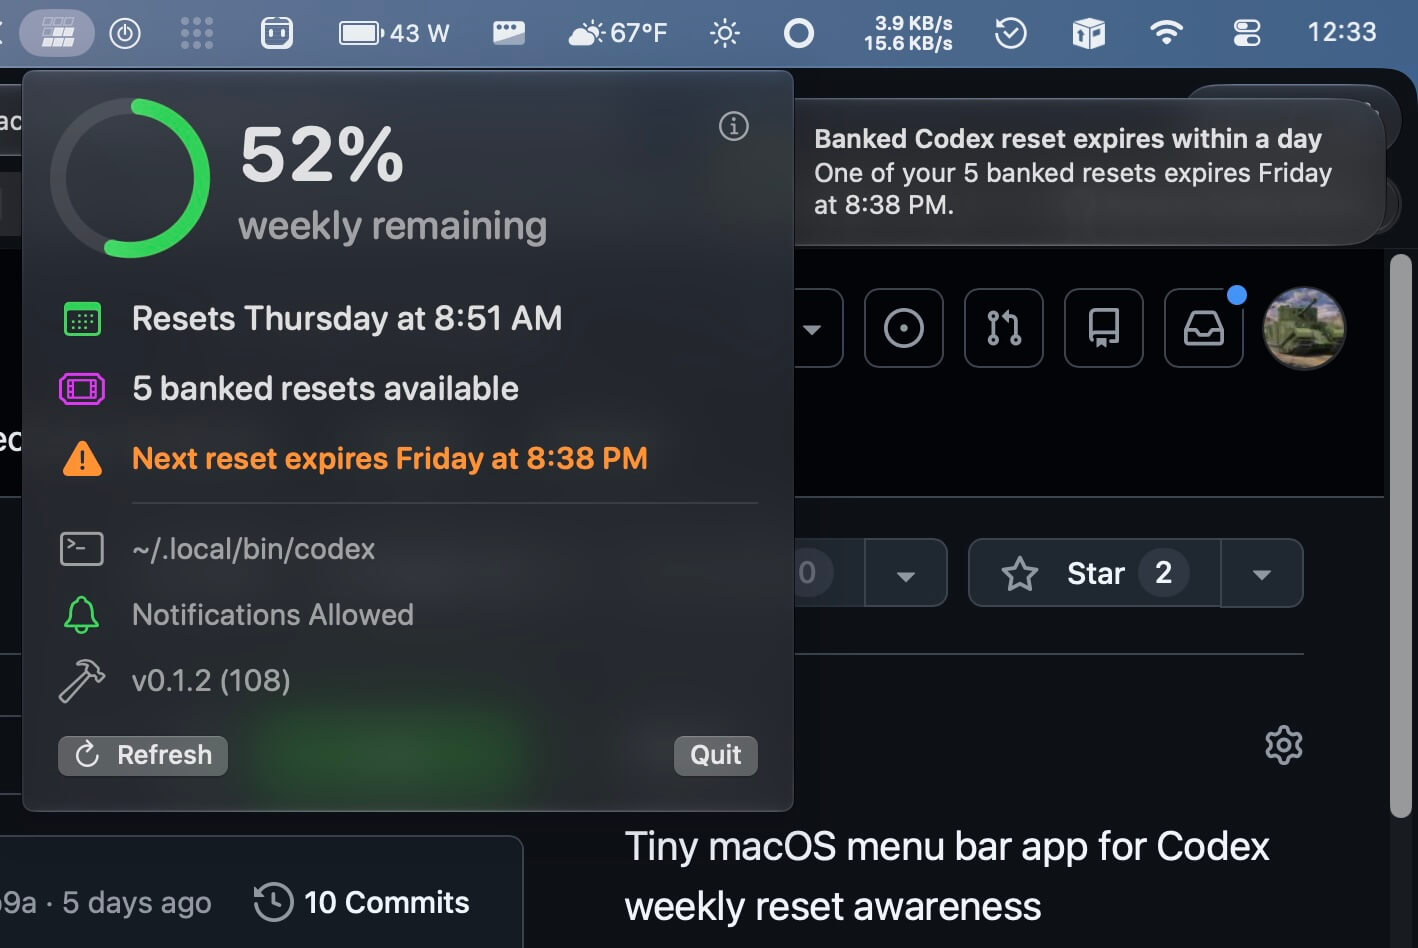
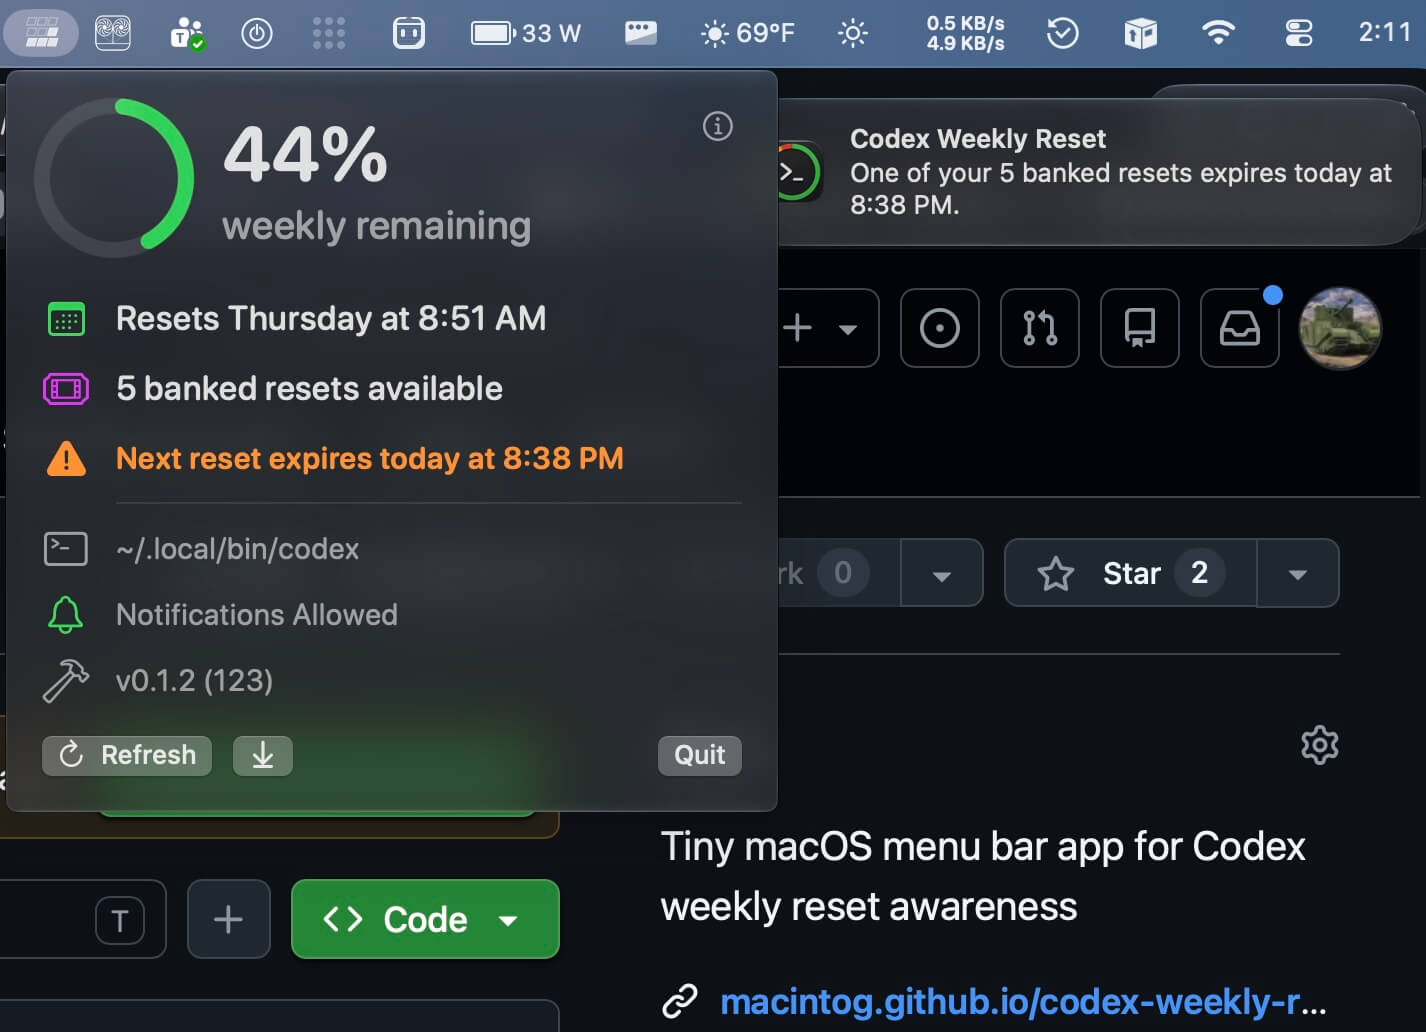
Refresh build 123 website screenshot

Changed region(s): [[0.0, 0.0, 1.0, 0.9789], [0.4344, 0.9483, 0.9309, 1.0]]

diff --git a/website/index.html b/website/index.html
@@ -51,10 +51,10 @@
         <figure class="hero-visual">
           <a class="preview-link" href="assets/codex-weekly-reset-alert.jpg" aria-label="Open the full-size Codex Weekly Reset launch warning screenshot">
             <div class="preview-frame">
-              <img class="app-preview-image" src="assets/codex-weekly-reset-alert.jpg" width="1418" height="948" alt="Codex Weekly Reset showing 52 percent weekly capacity, five banked resets, an upcoming expiry, and the matching one-day macOS notification">
+              <img class="app-preview-image" src="assets/codex-weekly-reset-alert.jpg" width="1426" height="1032" alt="Codex Weekly Reset build 123 showing 44 percent weekly capacity, five banked resets, a reset expiring today, and its matching native macOS notification">
             </div>
           </a>
-          <figcaption>Actual launch warning from the rebuilt app. Live Codex data, with no log scraping or inferred limits.</figcaption>
+          <figcaption>Build 123 in action: a reset expiring today, shown in the popover and in its native macOS alert.</figcaption>
         </figure>
       </section>
 
